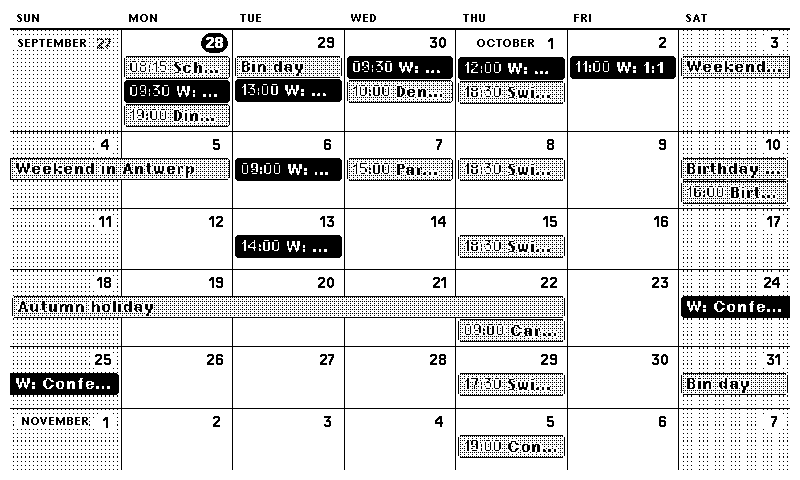
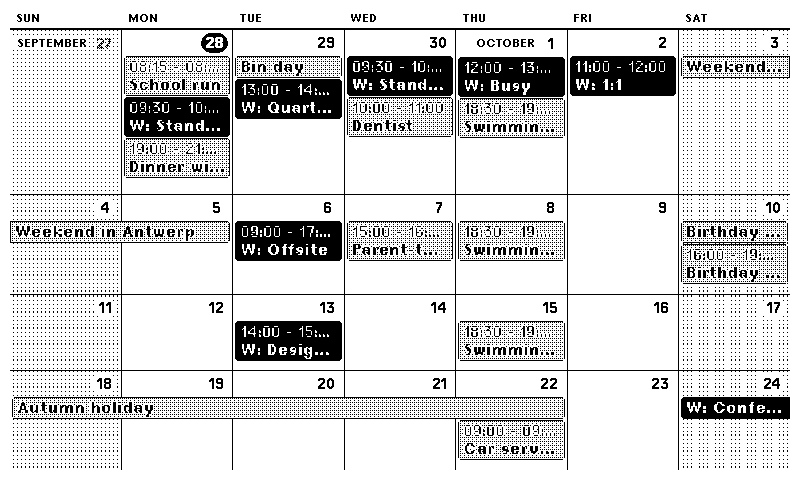
Put event times on their own line above the title
Like the upstream calendar plugin: dot events become a two-column grid
(dot and time on the first line, title below the time) and filled events
stack time and title, so titles get the full cell width instead of the
space left after "08:15 - 08:45". All-day events stay on one line.

Claude-Session: https://claude.ai/code/session_01NUfQZbey5uqSoJDLA5m21y

Changed region(s): [[0.0, 0.125, 0.8438, 0.9688], [0.8125, 0.25, 1.0, 0.9688], [0.8125, 0.2812, 0.8438, 0.3125]]

diff --git a/UPSTREAM.md b/UPSTREAM.md
@@ -38,6 +38,8 @@ Forked from [usetrmnl/plugins](https://github.com/usetrmnl/plugins), `lib/calend
   grid CSS in `shared.liquid` is written from scratch and sized with `--ui-scale`.
 - **Transform fix**: `getBoundingClientRect()` is corrected inside the calendar, so
   FullCalendar sizes correctly under the framework's `transform: scale(--pixel-ratio)`.
+- **Event times**: on their own line above the title, as upstream renders them (CSS on
+  FullCalendar's default event markup).
 - **Title bar**: the framework's `title_bar` with the visible date range replaces
   FullCalendar's `headerToolbar` (`month_header`).
 - **Removed**: time-grid helpers (`trmnlAllDaySlotAuto`, `trmnlSlotBoundsAuto`, the

diff --git a/README.md b/README.md
@@ -97,7 +97,7 @@ place and keeps your settings.
 | Week starts on | Monday | |
 | Advance | Weekly | `Daily` starts the grid at today instead of the start of the week |
 | Time format | 24 hour | |
-| Show event times / end times | yes / yes | End times take up most of a cell, turn them off for longer titles |
+| Show event times / end times | yes / yes | Times go on their own line above the title, like upstream |
 | Show past events | yes | Earlier days of the current week |
 | Highlight today, Shade weekends | yes | |
 | Show title bar, week numbers | no | The title bar is the framework's, with the recipe name and the visible date range |
